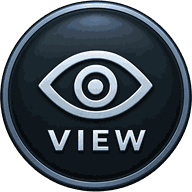
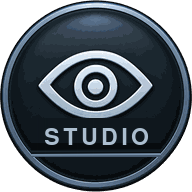
The dock says STUDIO, and the band's way out is the dock
The dock's words are painted into its icons, so VIEW stayed on the
button after the label changed; the icon now reads STUDIO. EXIT comes
off the band (STUDIO on the dock closes it), which leaves the camera row
five chips wide on a phone, with HUD on the same line.

Claude-Session: https://claude.ai/code/session_01Vm4UdrLmhsEiZM8Dk4Wi6F

Changed region(s): [[0.1562, 0.6562, 0.8438, 0.8438], [0.4688, 0.5938, 0.5312, 0.625]]

diff --git a/src/ui/studio.js b/src/ui/studio.js
@@ -77,14 +77,13 @@ export class Studio {
     const $ = (id) => document.getElementById(id);
     this.el = {
       band: $('studio'), hint: $('studio-hint'),
-      exit: $('st-exit'), follow: $('st-follow'), orbit: $('st-orbit'), dolly: $('st-dolly'),
+      follow: $('st-follow'), orbit: $('st-orbit'), dolly: $('st-dolly'),
       lens: $('st-lens'), hud: $('st-hud'), enemy: $('st-enemy'),
       snap: $('st-snap'), rec: $('st-rec'), save: $('st-save'),
       speeds: [...document.querySelectorAll('#studio [data-speed]')],
     };
     if (!this.el.band) return;
     const E = this.el;
-    E.exit.addEventListener('click', () => this.exit());
     E.follow.addEventListener('click', () => this.followTap());
     E.orbit.addEventListener('click', () => this.orbitTap());
     E.dolly.addEventListener('click', () => this.dollyTap());
@@ -156,7 +155,7 @@ export class Studio {
     this.setSpeed(1);
     this._hint(this.battle.studioRun
       ? 'THE STUDIO · EVERYTHING IS FREE AND NOTHING IS COUNTED · PLAY THE FIGHT, FILM IT'
-      : 'THE STUDIO · PLAY ON, THE BAND IS THE CAMERA · HUD OFF FOR A CLEAN SCREEN');
+      : 'THE STUDIO · PLAY ON, THE BAND IS THE CAMERA · STUDIO ON THE DOCK CLOSES IT');
     this._paint();
   }
 

diff --git a/index.html b/index.html
@@ -211,7 +211,6 @@
     <div id="studio" hidden>
       <div id="studio-hint"></div>
       <div class="st-row">
-        <button id="st-exit" title="Close the band">EXIT</button>
         <button id="st-follow" title="Follow a gun, an aircraft or a shell">FOLLOW</button>
         <button id="st-orbit" title="Orbit what is in focus">ORBIT</button>
         <button id="st-dolly" title="A move from one view to another">SET A</button>

diff --git a/CLAUDE.md b/CLAUDE.md
@@ -727,8 +727,8 @@ Read `docs/NEW_MAP_PLAYBOOK.md`. The `new-map` skill walks the steps.
   THE STUDIO (`src/ui/studio.js`): the game as a camera, over the game.
   STUDIO on the dock opens a band on the thumb line above the dock, and
   the fight goes on under it: pause, pick a unit, deploy, designate,
-  call a strike, all as in play. Chips forty-four points a side: EXIT,
-  FOLLOW (a tap on a gun, an aircraft, a shell, the lift or the
+  call a strike, all as in play, and STUDIO again closes it. Chips
+  forty-four points a side: FOLLOW (a tap on a gun, an aircraft, a shell, the lift or the
   building; a gun with its card open needs no tap; a second tap cycles
   through what is in the air and on the ground; a thing that dies hands
   the camera back), ORBIT (slow, brisk, the other way), SET A / SET B /
